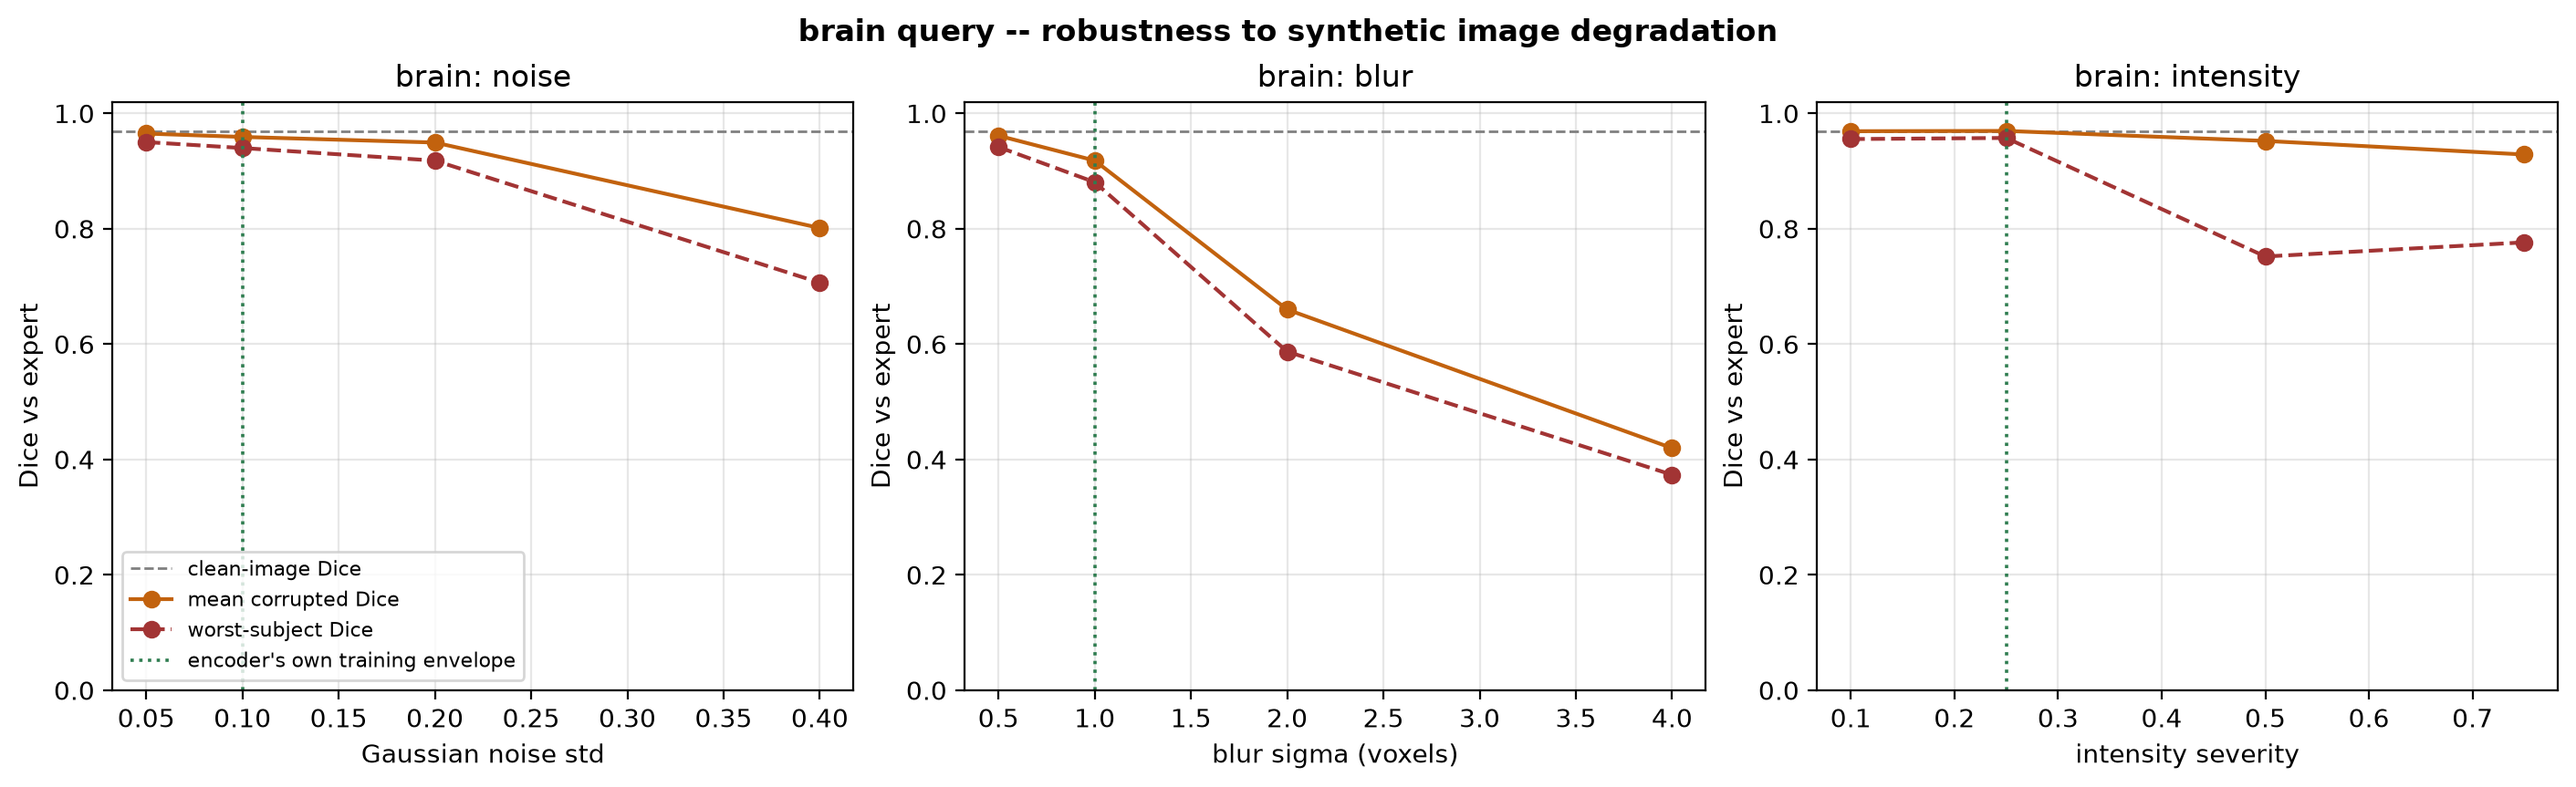
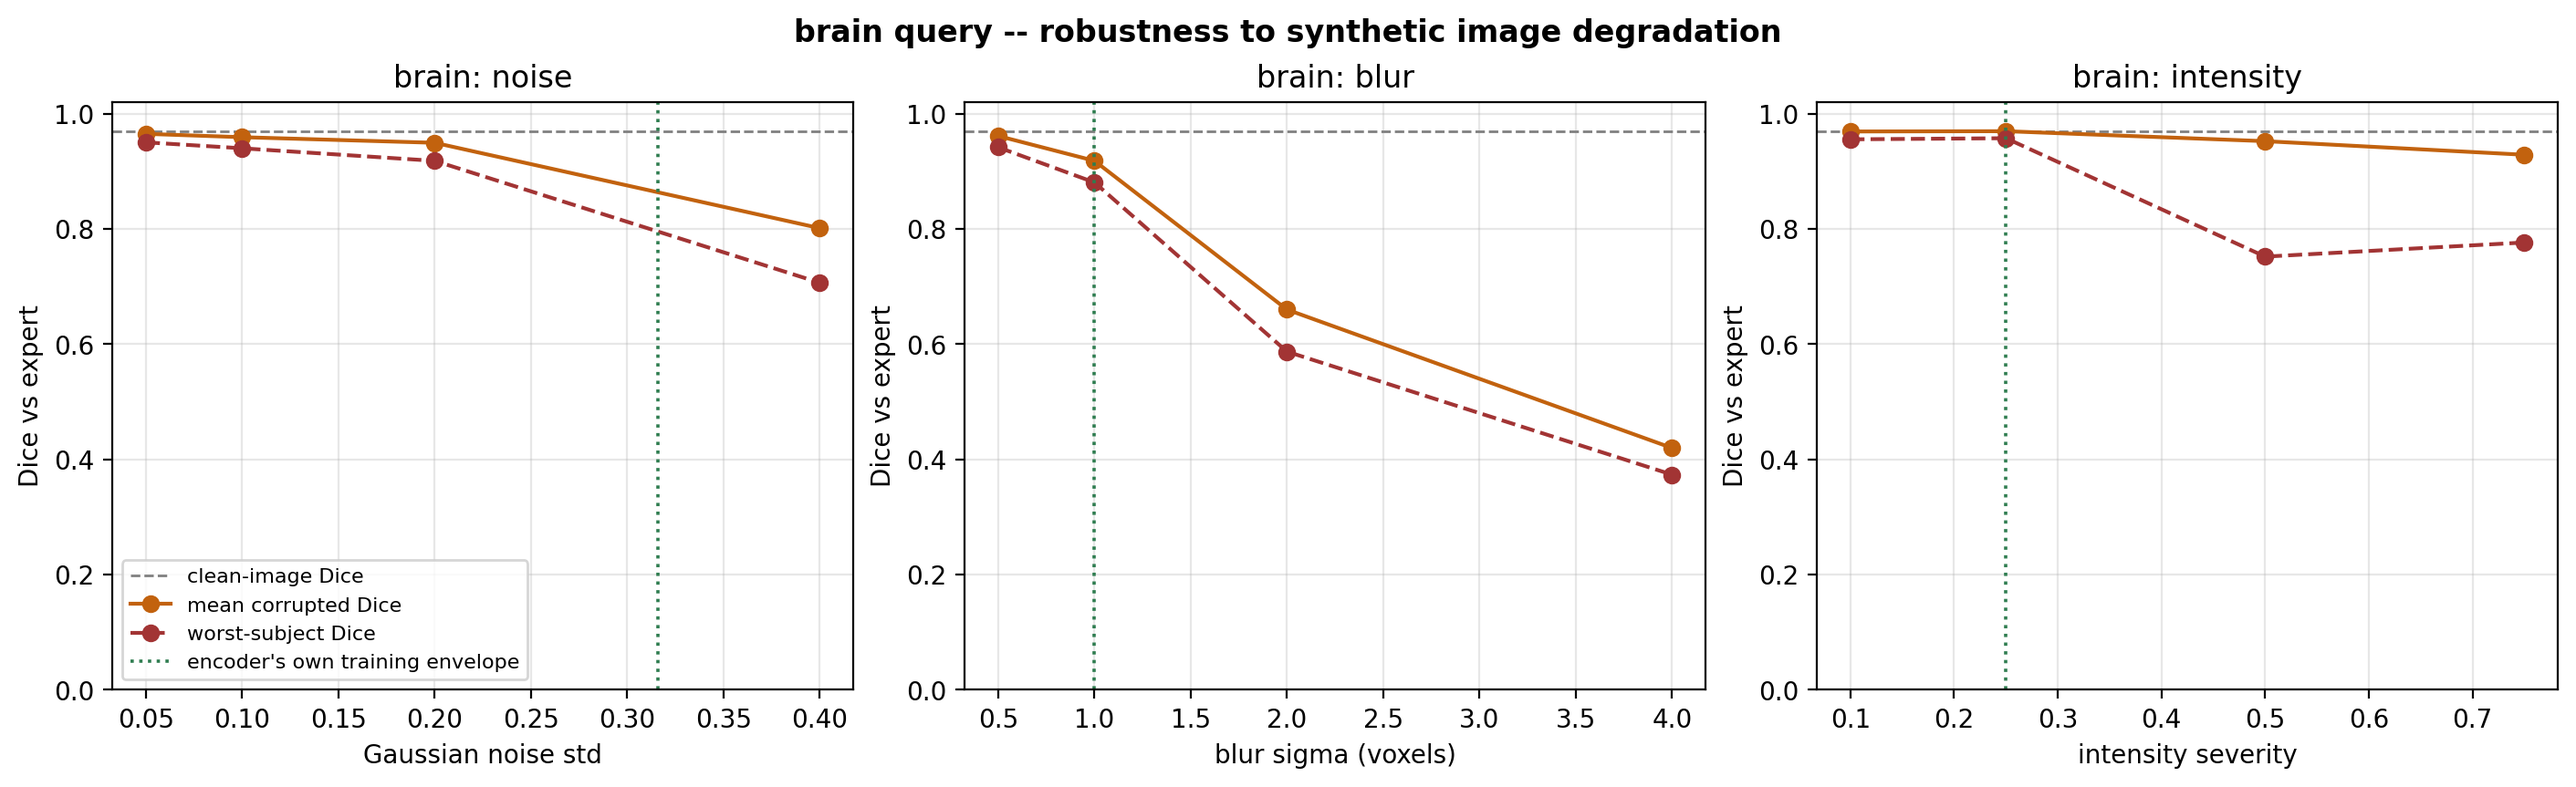
Correct noise-envelope threshold: 0.1 was the augmentation's probability, not its magnitude
RS2-Net's own training uses GaussianNoiseTransform(p_per_sample=0.1) -- that
0.1 is the PROBABILITY the transform fires on a given sample, not the noise
magnitude, which I had conflated when this test was first built. The real
magnitude is batchgenerators' own default noise_variance=(0, 0.1), i.e.
standard deviation up to sqrt(0.1) ~= 0.316, roughly 3x higher than what was
reported.

This reclassifies noise severity 0.2 from 'outside the training envelope'
to 'inside' it, for both queries. Practical effect: the lesion Dice drop at
that severity (0.690 -> 0.565) was described as expected out-of-distribution
degradation; it is not -- that's real degradation within what the encoder's
own training should already cover, a more concerning reading than before.
Blur and intensity envelope numbers were already correct (explicit ranges
in their code) and are unaffected.

Regenerated report.md, summary CSVs, and figures from the already-computed
per-subject Dice numbers (no GPU re-run needed -- only the envelope
classification changed, not any measured result). Restored the worst-subject
caveat paragraph that a full report regeneration had dropped.

diff --git a/scripts/test_noise_robustness.py b/scripts/test_noise_robustness.py
@@ -50,7 +50,13 @@ import space_invariance_common as sic
 NOISE_STDS = (0.05, 0.1, 0.2, 0.4)
 BLUR_SIGMAS = (0.5, 1.0, 2.0, 4.0)
 INTENSITY_SEVERITIES = (0.1, 0.25, 0.5, 0.75)
-TRAINING_ENVELOPE = {"noise": 0.1, "blur": 1.0, "intensity": 0.25}  # from the encoder's own recipe -- see docstring
+TRAINING_ENVELOPE = {"noise": 0.316, "blur": 1.0, "intensity": 0.25}  # from the encoder's own recipe -- see docstring
+# noise: GaussianNoiseTransform(p_per_sample=0.1) in their training code -- that 0.1 is the
+# PROBABILITY the transform fires, not the noise magnitude (a real error caught and fixed
+# after initially conflating the two). The actual magnitude is batchgenerators' own default,
+# noise_variance=(0, 0.1) -> std up to sqrt(0.1) = ~0.316, applied whenever the transform fires.
+# blur/intensity are unaffected -- those ARE the real explicit ranges: blur_sigma=(0.5, 1.0),
+# brightness multiplier=(0.75, 1.25) i.e. severity 0.25.
 
 
 def gaussian_kernel_1d(sigma, device):
@@ -201,9 +207,28 @@ def write_report(summaries, path):
              "self-consistency -- corruption isn't invertible) and compared to that same "
              "subject's own clean-image Dice. The **training envelope** line marks where "
              "the frozen encoder's own original training augmentation tops out "
-             "(see `rs2net_original_training_technique.md`): noise std 0.1, blur sigma "
-             "1.0, intensity severity 0.25 -- severities at or below that line are inside "
-             "what the encoder has already seen; above it is genuinely out of distribution.",
+             "(see `rs2net_original_training_technique.md`): noise std ~0.316 "
+             "(their code's `GaussianNoiseTransform(p_per_sample=0.1)` -- that 0.1 is the "
+             "probability the transform fires, not its magnitude; the actual magnitude is "
+             "batchgenerators' own default `noise_variance=(0, 0.1)`, i.e. std up to "
+             "sqrt(0.1) -- an error caught and corrected here after initially reporting 0.1 "
+             "as the magnitude), blur sigma 1.0, intensity severity 0.25 (both of these "
+             "two ARE explicit in their code, unaffected by the noise correction) -- "
+             "severities at or below these lines are inside what the encoder has already "
+             "seen; above it is genuinely out of distribution.",
+             "",
+             "**Caveat on \"worst subject\" (checked, not assumed):** the lesion test set "
+             "already has a wide natural spread in difficulty -- clean, uncorrupted Dice "
+             "ranges from 0.10 to 0.94 across the 15 subjects. At mild severities, the "
+             "\"worst subject\" in the tables below is consistently subject "
+             "`20170404CH_SC_M05`, whose **clean** Dice was already 0.0999 -- so its "
+             "near-zero corrupted Dice reflects pre-existing difficulty, not corruption-"
+             "induced collapse. Ranking all 15 subjects by clean Dice vs. by their mean "
+             "Dice across all 12 corrupted conditions gives nearly identical orderings: "
+             "corruption amplifies existing difficulty rather than introducing a new, "
+             "independent failure mode. The reliable signal of real corruption damage is "
+             "the **mean** Dice column, which drops across all 15 subjects at higher "
+             "severities, not just the hardest one.",
              ""]
     for task, summary in summaries.items():
         lines += [f"## {task} query", "",

diff --git a/outputs/noise_robustness/report.md b/outputs/noise_robustness/report.md
@@ -1,8 +1,8 @@
 # Synthetic noise / blur / intensity robustness
 
-Advisor-requested: how good is the current model for degraded images? Each corrupted prediction is scored directly against the expert mask (not self-consistency -- corruption isn't invertible) and compared to that same subject's own clean-image Dice. The **training envelope** line marks where the frozen encoder's own original training augmentation tops out (see `rs2net_original_training_technique.md`): noise std 0.1, blur sigma 1.0, intensity severity 0.25 -- severities at or below that line are inside what the encoder has already seen; above it is genuinely out of distribution.
+Advisor-requested: how good is the current model for degraded images? Each corrupted prediction is scored directly against the expert mask (not self-consistency -- corruption isn't invertible) and compared to that same subject's own clean-image Dice. The **training envelope** line marks where the frozen encoder's own original training augmentation tops out (see `rs2net_original_training_technique.md`): noise std ~0.316 (their code's `GaussianNoiseTransform(p_per_sample=0.1)` -- that 0.1 is the probability the transform fires, not its magnitude; the actual magnitude is batchgenerators' own default `noise_variance=(0, 0.1)`, i.e. std up to sqrt(0.1) -- an error caught and corrected here after initially reporting 0.1 as the magnitude), blur sigma 1.0, intensity severity 0.25 (both of these two ARE explicit in their code, unaffected by the noise correction) -- severities at or below these lines are inside what the encoder has already seen; above it is genuinely out of distribution.
 
-**Caveat on "worst subject" (checked, not assumed):** the lesion test set already has a wide natural spread in difficulty -- clean, uncorrupted Dice ranges from 0.10 to 0.94 across the 15 subjects (small/ambiguous lesions are already hard for this model with no corruption at all). At mild severities, the "worst subject" in the table/figure below is consistently subject `20170404CH_SC_M05`, whose **clean** Dice was already 0.0999 -- so its near-zero corrupted Dice reflects pre-existing difficulty, not corruption-induced collapse. The reliable signal of real corruption damage is the **mean** Dice column, which drops across all 15 subjects, not just the hardest one; at higher severities (blur sigma>=2, noise std=0.4) the mean itself collapses broadly, which is genuine, broad-based degradation.
+**Caveat on "worst subject" (checked, not assumed):** the lesion test set already has a wide natural spread in difficulty -- clean, uncorrupted Dice ranges from 0.10 to 0.94 across the 15 subjects. At mild severities, the "worst subject" in the tables below is consistently subject `20170404CH_SC_M05`, whose **clean** Dice was already 0.0999 -- so its near-zero corrupted Dice reflects pre-existing difficulty, not corruption-induced collapse. Ranking all 15 subjects by clean Dice vs. by their mean Dice across all 12 corrupted conditions gives nearly identical orderings: corruption amplifies existing difficulty rather than introducing a new, independent failure mode. The reliable signal of real corruption damage is the **mean** Dice column, which drops across all 15 subjects at higher severities, not just the hardest one.
 
 ## brain query
 
@@ -18,7 +18,7 @@ Advisor-requested: how good is the current model for degraded images? Each corru
 | intensity | 0.75 | 0.9287 | 0.7764 | -0.0405 | no |
 | noise | 0.05 | 0.9650 | 0.9502 | -0.0042 | yes |
 | noise | 0.1 | 0.9592 | 0.9399 | -0.0100 | yes |
-| noise | 0.2 | 0.9495 | 0.9181 | -0.0197 | no |
+| noise | 0.2 | 0.9495 | 0.9181 | -0.0197 | yes |
 | noise | 0.4 | 0.8013 | 0.7065 | -0.1679 | no |
 
 ## lesion query
@@ -35,7 +35,7 @@ Advisor-requested: how good is the current model for degraded images? Each corru
 | intensity | 0.75 | 0.5193 | 0.0036 | -0.1708 | no |
 | noise | 0.05 | 0.6827 | 0.0338 | -0.0074 | yes |
 | noise | 0.1 | 0.6597 | 0.0074 | -0.0304 | yes |
-| noise | 0.2 | 0.5654 | 0.0005 | -0.1247 | no |
+| noise | 0.2 | 0.5654 | 0.0005 | -0.1247 | yes |
 | noise | 0.4 | 0.4749 | 0.0003 | -0.2153 | no |
 
 _Generated by `scripts/test_noise_robustness.py`; raw per-subject numbers in the CSVs beside this file._
